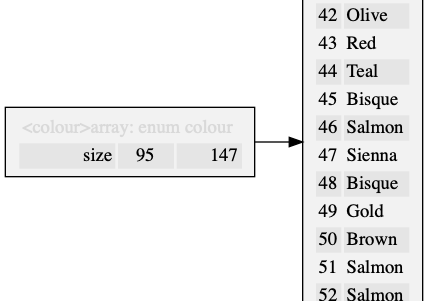
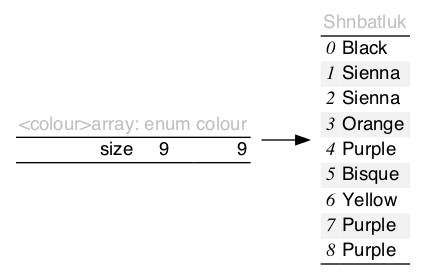
Improved array illustration to go with the rest of the boxes.

Changed region(s): [[0.0, 0.0, 1.0, 1.0]]

diff --git a/readme.html b/readme.html
@@ -50,7 +50,7 @@
 
 <h2><a id = "preamble:" name = "preamble:">Description</a></h2>
 
-<p><img alt = "Example of array." src = "doc/array.png" width = 428 height = 301></p>
+<p><img alt = "Example of array." src = "doc/array.png" width = 425 height = 280></p>
 
 <p><a href = "#tag:&lt;A&gt;array">&lt;A&gt;array</a> is a dynamic array that stores contiguous <a href = "#typedef:&lt;PA&gt;type">&lt;PA&gt;type</a>. Resizing may be necessary when increasing the size of the array; this incurs amortised cost, and any pointers to this memory may become stale.</p>
 

diff --git a/test/test_array.h b/test/test_array.h
@@ -29,36 +29,44 @@ static void PA_(graph)(const struct A_(array) *const a, const char *const fn) {
 	assert(a && fn && !errno);
 	if(!(fp = fopen(fn, "w"))) { perror(fn); errno = 0; return; }
 	fprintf(fp, "digraph {\n"
-		"\trankdir=LR;\n"
-		"\tgraph [truecolor=true, bgcolor=transparent, fontface=modern];\n"
-		"\tnode [shape=box, style=filled, fillcolor=\"Gray95\"];\n"
-		"\tarray [label=<<TABLE BORDER=\"0\">\n"
-		"\t<TR><TD COLSPAN=\"3\" ALIGN=\"LEFT\">"
-		"<FONT COLOR=\"Gray85\">&lt;" QUOTE(ARRAY_NAME)
-		"&gt;array: " QUOTE(ARRAY_TYPE) "</FONT></TD></TR>\n"
-		"\t<TR>\n"
-		"\t\t<TD BORDER=\"0\" ALIGN=\"RIGHT\" BGCOLOR=\"Gray90\">size</TD>\n"
-		"\t\t<TD BORDER=\"0\" BGCOLOR=\"Gray90\">%lu</TD>\n"
-		"\t\t<TD BORDER=\"0\" ALIGN=\"RIGHT\" BGCOLOR=\"Gray90\">%lu</TD>\n"
-		"\t</TR>\n"
-		"</TABLE>>];\n", (unsigned long)a->size, (unsigned long)a->capacity);
+		"\tgraph [rankdir=LR, truecolor=true, bgcolor=transparent,"
+		" fontname=modern];\n"
+		"\tnode [shape=none, fontname=modern];\n"
+		"\tarray [label=<\n"
+		"<table border=\"0\" cellspacing=\"0\">\n"
+		"\t<tr><td colspan=\"3\" align=\"left\">"
+		"<font color=\"Gray75\">&lt;" QUOTE(ARRAY_NAME)
+		"&gt;array: " QUOTE(ARRAY_TYPE) "</font></td></tr>\n"
+		"\t<hr/>\n"
+		"\t<tr>\n"
+		"\t\t<td border=\"0\" align=\"right\">size</td>\n"
+		"\t\t<td border=\"0\">%lu</td>\n"
+		"\t\t<td border=\"0\" align=\"right\">%lu</td>\n"
+		"\t</tr>\n"
+		"\t<hr/>\n"
+		"\t<tr><td></td></tr>\n"
+		"</table>>];\n", (unsigned long)a->size, (unsigned long)a->capacity);
 	if(!a->data) goto no_data;
 	fprintf(fp, "\tarray -> data;\n"
 		"\tdata [label=<\n"
-		"<TABLE BORDER=\"0\">\n"
-		"\t<TR><TD COLSPAN=\"2\" ALIGN=\"LEFT\">"
-		"<FONT COLOR=\"Gray85\">%s</FONT></TD></TR>\n", orcify(a->data));
+		"<table border=\"0\" cellspacing=\"0\">\n"
+		"\t<tr><td colspan=\"2\" align=\"left\">"
+		"<font color=\"Gray75\">%s</font></td></tr>\n"
+		"\t<hr/>\n", orcify(a->data));
 	for(i = 0; i < a->size; i++) {
-		const char *const bgc = i & 1 ? "" : " BGCOLOR=\"Gray90\"";
+		const char *const bgc = i & 1 ? " bgcolor=\"Gray95\"" : "";
 		A_(to_string)((void *)(a->data + i), &z);
-		fprintf(fp, "\t<TR>\n"
-			"\t\t<TD ALIGN=\"RIGHT\"%s>%lu</TD>\n"
-			"\t\t<TD ALIGN=\"LEFT\"%s>%s</TD>\n"
-			"\t</TR>\n", bgc, (unsigned long)i, bgc, z);
+		fprintf(fp, "\t<tr>\n"
+			"\t\t<td align=\"right\"%s>"
+			"<font face=\"Times-Italic\">%lu</font></td>\n"
+			"\t\t<td align=\"left\"%s>%s</td>\n"
+			"\t</tr>\n", bgc, (unsigned long)i, bgc, z);
 	}
-	fprintf(fp, "</TABLE>>];\n");
+	fprintf(fp, "\t<hr/>\n"
+		"\t<tr><td></td></tr>\n"
+		"</table>>];\n");
 no_data:
-	fprintf(fp, "\tnode [colour=red];\n"
+	fprintf(fp, "\tnode [colour=\"Red\"];\n"
 		"}\n");
 	fclose(fp);
 }
@@ -129,7 +137,8 @@ static void PA_(test_basic)(void) {
 		printf("a[%lu] = %s\n", (unsigned long)i, z);
 		assert(!memcmp(item, items + i, sizeof *item));
 	}
-	it = A_(array_iterator_at)(&a,i/*3*/), item = A_(array_next)(&it), assert(!item);
+	it = A_(array_iterator_at)(&a,i/*3*/), item = A_(array_next)(&it);
+	assert(!item);
 	/* Iteration and back. */
 	it = A_(array_iterator)(&a);
 	item = A_(array_next)(&it), assert(!memcmp(item, items + 0, sizeof *item));
@@ -506,249 +515,6 @@ static void A_(array_test)(void) {
 	PA_(test_insert)();
 	fprintf(stderr, "Done tests of array<" QUOTE(ARRAY_NAME) ">.\n\n");
 }
-
-
-#if 0
-
-
-/** Fills `fill` that is not equal to `neq` if possible. */
-static int PCMP_(fill_unique)(PA_(type) *const fill,
-	const PA_(type) *const neq) {
-	size_t i;
-	assert(fill);
-	for(i = 0; i < 1000; i++) {
-		A_(filler)(fill);
-		if(!neq || !PCMP_(is_equal)((const PA_(type_c) *)neq,
-			(const PA_(type_c) *)fill)) return 1;
-	}
-	assert(0); return 0;
-}
-
-#if 0
-static int PCMP_(unique_array)(PA_(type) *const fill, const size_t size) {
-	const size_t no_try = 5000;
-	size_t attempt, i = 0;
-	for(attempt = 0; attempt < no_try; attempt++) {
-		size_t back;
-		char z[12];
-		A_(filler)(fill + i);
-		PA_(to_string)(fill + i, &z), printf("unique_array: %s?\n", z);
-		for(back = i; back && !PCMP_(is_equal)(fill + back - 1, fill + i);
-			back--);
-		if(back)
-			{ printf("unique_array: %s is duplicated.\n", z); continue; }
-		if(++i >= size) break;
-	}
-	if(attempt == no_try) {
-		return printf("unique_array: couldn't get unique entries from "
-			QUOTE(LIST_NAME) " in %lu tries; giving up.\n",
-			(unsigned long)no_try), 0;
-	}
-	return printf("unique_array: got duplicates in %lu tries.\n",
-		(unsigned long)attempt), 1;
-}
-#endif
-
-static void PCMP_(test_compactify)(void) {
-	struct A_(array) a = A_(array)();
-	PA_(type) ts[9], *t, *t1, *t_prev;
-	const size_t ts_size = sizeof ts / sizeof *ts;
-	/* `valgrind` is giving me grief if I don't do this? */
-	memset(ts, 0, sizeof ts);
-	/* Get elements. */
-	assert(ts_size % 3 == 0);
-	for(t_prev = 0, t = ts, t1 = t + ts_size; t < t1; t_prev = t, t += 3) {
-		if(!PCMP_(fill_unique)(t, t_prev)) { assert(0); return; }
-		memcpy(t + 1, t, sizeof *t);
-		memcpy(t + 2, t, sizeof *t);
-	}
-	if(!A_(array_append)(&a, ts_size)) { assert(0); return; }
-	memcpy(a.data, ts, sizeof *t * ts_size);
-	printf("\ntest compactify: %s.\n", PA_(array_to_string)(&a));
-	CMP_(unique)(&a);
-	printf("Compactified: %s.\n", PA_(array_to_string)(&a));
-	assert(a.size == ts_size / 3);
-#ifdef ARRAY_COMPARE /* <!-- compare */
-	CMP_(reverse)(&a);
-	printf("Reverse: %s.\n", PA_(array_to_string)(&a));
-	for(t = a.data, t1 = a.data + a.size - 1; t < t1; t++)
-		assert(PCMP_(compare)((const PA_(type_c) *)t,
-			(const PA_(type_c) *)(t + 1)) >= 0);
-	CMP_(sort)(&a);
-	printf("Sorted: %s.\n", PA_(array_to_string)(&a));
-	for(t = a.data, t1 = a.data + a.size - 1; t < t1; t++)
-		assert(PCMP_(compare)((const PA_(type_c) *)t,
-			(const PA_(type_c) *)(t + 1)) <= 0);
-#endif /* compare --> */
-	A_(array_)(&a);
-}
-
-static void PCMP_(test_compare)(void) {
-	struct A_(array) a = A_(array)(), b = A_(array)();
-	struct A_(array_iterator) it;
-	PA_(type) ts[9], *t, *t1;
-	const size_t ts_size = sizeof ts / sizeof *ts;
-	size_t i;
-	int cmp;
-	/* `valgrind` is giving me grief if I don't do this? */
-	memset(ts, 0, sizeof ts);
-	/* Get elements. */
-	for(t = ts, t1 = t + ts_size; t < t1; t++) A_(filler)(t);
-	if(!A_(array_append)(&a, ts_size)) { assert(0); return; }
-	memcpy(a.data, ts, sizeof *t * ts_size);
-	printf("\ntest compare: %s.\n", PA_(array_to_string)(&a));
-	assert(ts_size == a.size);
-	t = 0, i = 0;
-	it = A_(array_iterator)(&a);
-	while(t = A_(array_next)(&it)) {
-		char z[12];
-		PA_(to_string)((const PA_(type_c) *)t, &z);
-		printf("next %s; ", z);
-		assert(t = a.data + i++);
-	}
-	assert(i == ts_size);
-	while(t = A_(array_previous)(&it)) {
-		char z[12];
-		PA_(to_string)((const PA_(type_c) *)t, &z);
-		printf("previous %s; ", z);
-		assert(t = a.data + --i);
-	}
-	printf("done.\n");
-	assert(!i);
-	cmp = CMP_(is_equal)(0, 0), assert(cmp);
-	printf("a: %s.\n"
-		"b: %s.\n", PA_(array_to_string)(&a), PA_(array_to_string)(&b));
-	cmp = CMP_(is_equal)(&a, &b), assert(!cmp);
-	cmp = CMP_(is_equal)(&a, 0), assert(!cmp);
-	cmp = CMP_(is_equal)(0, &b), assert(cmp); /* Null == size 0. */
-	if(!A_(array_append)(&b, ts_size)) { assert(0); return; }
-	memcpy(b.data, ts, sizeof *t * ts_size);
-	printf("now b: %s.\n", PA_(array_to_string)(&b));
-	cmp = CMP_(is_equal)(&a, &b), assert(cmp);
-	A_(array_)(&a);
-	A_(array_)(&b);
-}
-
-#ifdef ARRAY_COMPARE /* <!-- comp */
-static int PCMP_(cmp_void)(const void *const a, const void *const b)
-	{ return CMP_(compare)(a, b); }
-#endif /* comp --> */
-
-static void PCMP_(test_sort)(void) {
-#ifdef ARRAY_COMPARE /* <!-- comp */
-	struct A_(array) as[64], *a;
-	const size_t as_size = sizeof as / sizeof *as;
-	const struct A_(array) *const as_end = as + as_size;
-	int cmp;
-	printf("\ntest sort:\n");
-	/* Random array of Arrays. */
-	for(a = as; a < as_end; a++) {
-		size_t size = (unsigned)rand() / (RAND_MAX / 5 + 1), i;
-		PA_(type) *x, *x_end;
-		*a = A_(array)();
-		x = A_(array_append)(a, size);
-		x_end = x + size;
-		if(!size) continue;
-		assert(x);
-		for(i = 0; i < size; i++) A_(filler)(a->data + i); /* Emplace. */
-		CMP_(sort)(a);
-		for(x = a->data; x < x_end - 1; x++)
-			cmp = PCMP_(compare)((const PA_(type_c) *)x,
-			(const PA_(type_c) *)(x + 1)), assert(cmp <= 0);
-	}
-	/* Now sort the lists. */
-	qsort(as, as_size, sizeof *as, &PCMP_(cmp_void));
-	printf("Sorted array of sorted <" QUOTE(ARRAY_NAME) ">array by "
-		   QUOTE(ARRAY_COMPARE) ":\n");
-	for(a = as; a < as_end; a++) {
-		printf("array: %s.\n", PA_(array_to_string)(a));
-		if(a == as) continue;
-		cmp = CMP_(compare)(a - 1, a);
-		assert(cmp <= 0);
-	}
-	for(a = as; a < as_end; a++) A_(array_)(a);
-#endif /* comp --> */
-}
-
-static void PCMP_(test_bounds)(void) {
-#ifdef ARRAY_COMPARE /* <!-- compare */
-	struct A_(array) a = A_(array)();
-	const size_t size = 10;
-	size_t i, low, high;
-	PA_(type) elem, *cont;
-	const PA_(type_c) *elemp;
-	int ret;
-	char z[12];
-	printf("\ntest bounds:\n");
-	if(!A_(array_append)(&a, size)) { assert(0); return; }
-	for(i = 0; i < size; i++) A_(filler)(a.data + i);
-	memset(&elem, 0, sizeof elem), A_(filler)(&elem);
-	CMP_(sort)(&a);
-	elemp = (const PA_(type_c) *)&elem;
-	printf("sorted: %s.\n", PA_(array_to_string)(&a));
-	PA_(to_string)(elemp, &z);
-	printf("element to compare: %s\n", z);
-	low = CMP_(lower_bound)(&a, elemp);
-	printf(QUOTE(ARRAY_COMPARE) " lower_bound: %lu.\n", (unsigned long)low);
-	assert(low <= a.size);
-	assert(!low || PCMP_(compare)((const PA_(type_c) *)(a.data + low - 1),
-		elemp) < 0);
-	assert(low == a.size || PCMP_(compare)(elemp,
-		(const PA_(type_c) *)(a.data + low)) <= 0);
-	high = CMP_(upper_bound)(&a, elemp);
-	printf(QUOTE(ARRAY_COMPARE) " upper_bound: %lu.\n", (unsigned long)high);
-	assert(high <= a.size);
-	assert(!high || PCMP_(compare)((const PA_(type_c) *)(a.data + high - 1),
-		elemp) <= 0);
-	assert(high == a.size || PCMP_(compare)(elemp,
-		(const PA_(type_c) *)(a.data + high)) < 0);
-	PA_(to_string)(elemp, &z);
-	printf("insert: %s into %s of size %lu.\n",
-		z, PA_(array_to_string)(&a), (unsigned long)size);
-	ret = CMP_(insert_after)(&a, elemp);
-	assert(ret && a.size == size + 1);
-	ret = memcmp(elemp, a.data + low, sizeof elem), assert(!ret);
-	A_(array_clear)(&a);
-	cont = A_(array_append)(&a, size), assert(cont);
-	for(i = 0; i < size; i++) memcpy(cont + i, &elem, sizeof elem);
-	printf("bounds: now %s.\n", PA_(array_to_string)(&a));
-	low = CMP_(lower_bound)(&a, elemp);
-	printf(QUOTE(ARRAY_COMPARE) " lower_bound: %lu.\n", (unsigned long)low);
-	assert(low == 0);
-	high = CMP_(upper_bound)(&a, elemp);
-	printf(QUOTE(ARRAY_COMPARE) " upper_bound: %lu.\n", (unsigned long)high);
-	assert(high == a.size);
-	A_(array_)(&a);
-#endif /* compare --> */
-}
-
-/** `ARRAY_TEST`, `ARRAY_COMPARE` -> `ARRAY_TO_STRING`, !`NDEBUG`: will be
- tested on stdout. @allow */
-static void CMP_(compare_test)(void) {
-	printf("<" QUOTE(ARRAY_NAME) ">array testing <"
-#ifdef ARRAY_COMPARE_NAME
-		QUOTE(ARRAY_COMPARE_NAME)
-#else
-		"anonymous"
-#endif
-		"> "
-#ifdef ARRAY_COMPARE
-		"compare <" QUOTE(ARRAY_COMPARE)
-#elif defined(ARRAY_IS_EQUAL)
-		"is equal <" QUOTE(ARRAY_IS_EQUAL)
-#endif
-		">:\n");
-	errno = 0;
-	PCMP_(test_sort)();
-	PCMP_(test_bounds)();
-	PCMP_(test_compactify)();
-	PCMP_(test_compare)();
-	assert(errno == 0);
-	fprintf(stderr, "Done tests of <" QUOTE(ARRAY_NAME) ">array compare.\n\n");
-}
-
-#endif
-
 
 #undef QUOTE
 #undef QUOTE_
